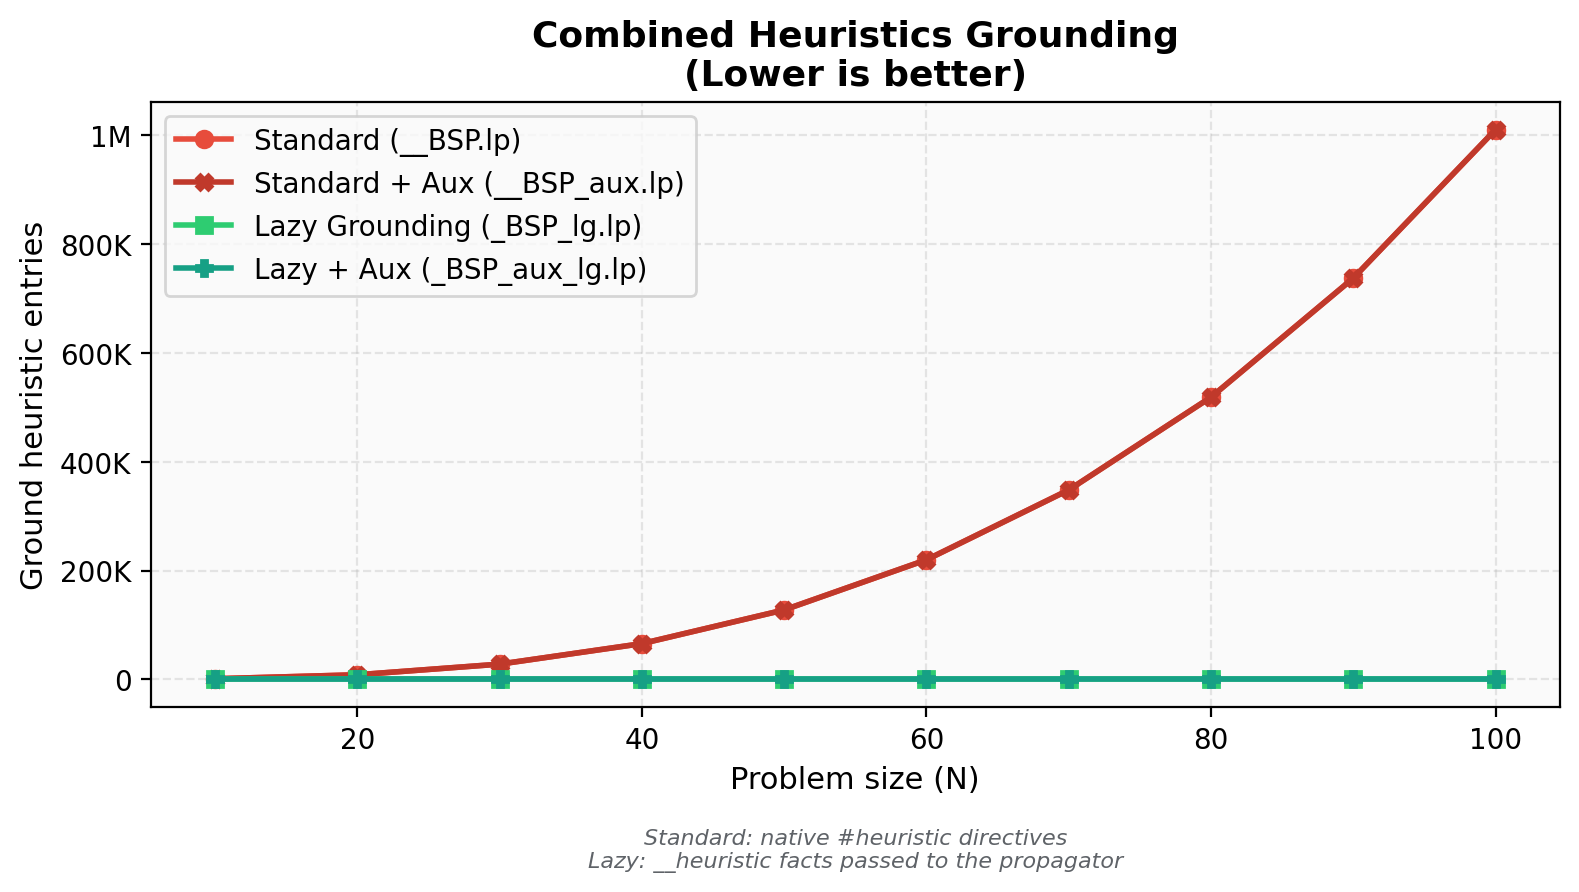
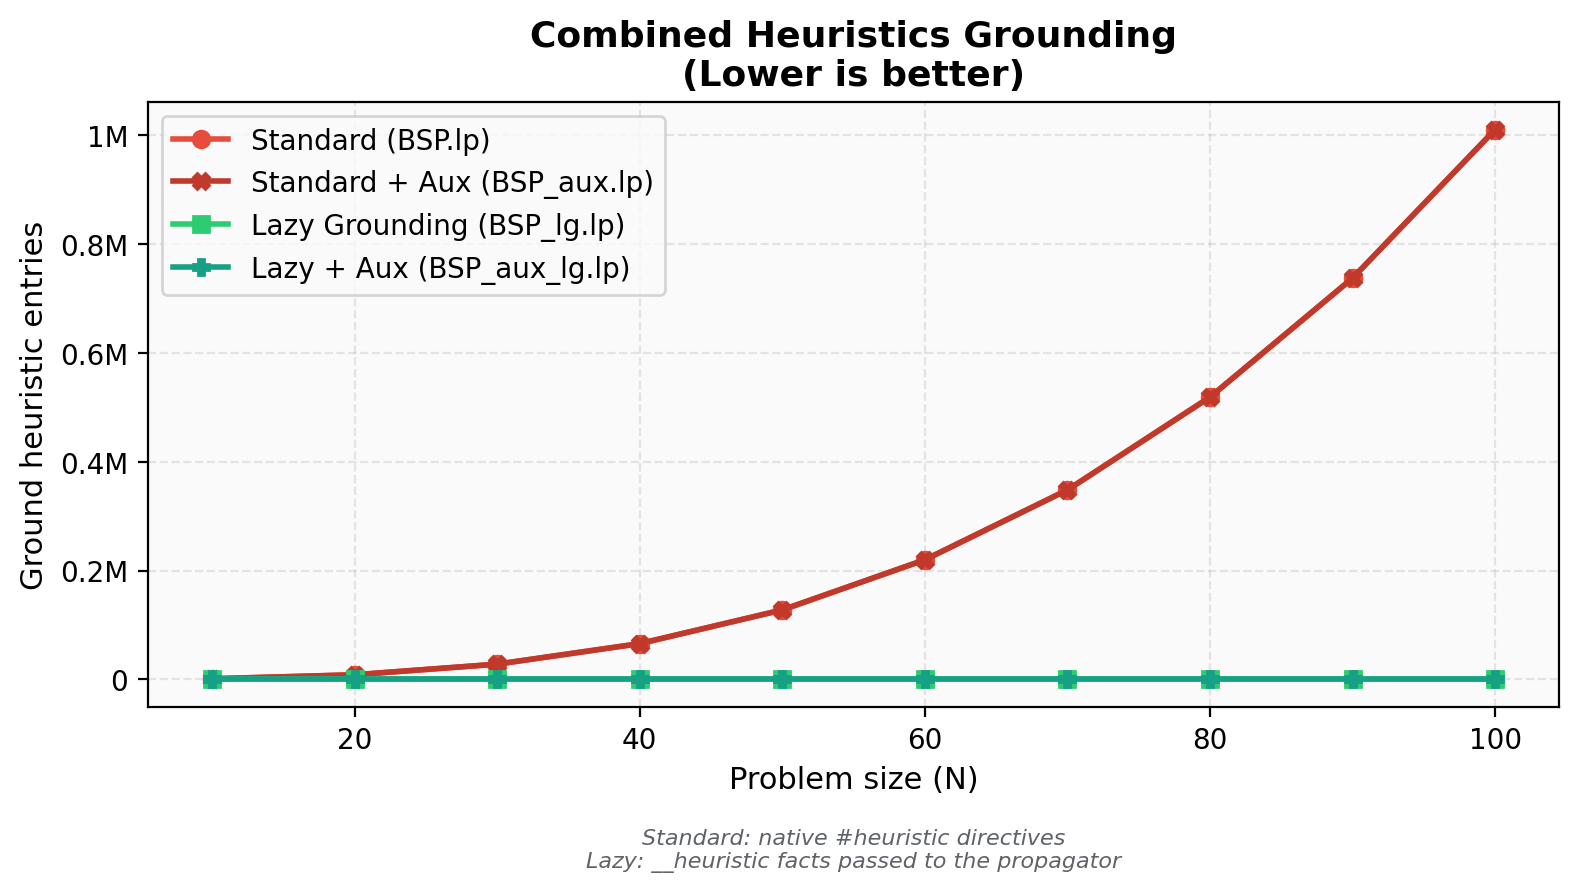
bene

diff --git a/test_folder/gen_graphs.py b/test_folder/gen_graphs.py
@@ -302,6 +302,11 @@ def compute_stats(raw):
 VARIANT_FILL_ALPHA = 0.15
 CAPTION_COLOR = "#5F6368"
 SEPARATOR_COLOR = "#D6D6D6"
+VERTICAL_SEPARATOR_GAP_FRACTION = 0.42
+MILLION_FORMAT_METRICS = {
+    "variables",
+    "combined_heuristics",
+}
 
 
 def _add_axis_caption(ax, description: str, *, y: float, width: int, fontsize: int):
@@ -342,15 +347,48 @@ def _format_compact_number(value, _pos=None):
     return f"{value:g}"
 
 
+def _format_millions(value, _pos=None):
+    """Format grounding-size ticks in millions, keeping sub-million values as decimals."""
+    abs_value = abs(value)
+    if abs_value >= 100_000:
+        scaled = value / 1_000_000
+        return f"{scaled:.1f}".rstrip("0").rstrip(".") + "M"
+    if abs_value >= 1:
+        return f"{value:.0f}"
+    if value == 0:
+        return "0"
+    return f"{value:g}"
+
+
+def _format_memory_mb(value, _pos=None):
+    """Format MB ticks compactly while keeping the axis unit in the label."""
+    abs_value = abs(value)
+    if abs_value >= 1_000:
+        scaled = value / 1_000
+        return f"{scaled:.1f}".rstrip("0").rstrip(".") + "k"
+    if abs_value >= 1:
+        return f"{value:.0f}"
+    if value == 0:
+        return "0"
+    return f"{value:g}"
+
+
 def _apply_y_axis_format(ax, metric: str):
     """Keep count-like axes readable and consistent across charts."""
-    if metric not in INTEGER_METRICS:
-        return
-
     from matplotlib.ticker import FuncFormatter, MaxNLocator
 
-    ax.yaxis.set_major_locator(MaxNLocator(nbins=6, integer=True))
-    ax.yaxis.set_major_formatter(FuncFormatter(_format_compact_number))
+    if metric == "memory_mb":
+        ax.yaxis.set_major_locator(MaxNLocator(nbins=6))
+        ax.yaxis.set_major_formatter(FuncFormatter(_format_memory_mb))
+    elif metric in MILLION_FORMAT_METRICS:
+        ax.yaxis.set_major_locator(MaxNLocator(nbins=6, integer=True))
+        ax.yaxis.set_major_formatter(FuncFormatter(_format_millions))
+    elif metric in INTEGER_METRICS:
+        ax.yaxis.set_major_locator(MaxNLocator(nbins=6, integer=True))
+        ax.yaxis.set_major_formatter(FuncFormatter(_format_compact_number))
+    else:
+        return
+
     ax.yaxis.offsetText.set_visible(False)
 
 
@@ -385,10 +423,9 @@ def _add_subplot_separators(fig, axes, n_plots: int):
         if not left_positions or not right_positions:
             continue
 
-        x = (
-            max(pos.x1 for pos in left_positions) +
-            min(pos.x0 for pos in right_positions)
-        ) / 2.0
+        left_edge = max(pos.x1 for pos in left_positions)
+        right_edge = min(pos.x0 for pos in right_positions)
+        x = left_edge + (right_edge - left_edge) * VERTICAL_SEPARATOR_GAP_FRACTION
         fig.add_artist(Line2D([x, x], [y0, y1], transform=fig.transFigure,
                               color=SEPARATOR_COLOR, linewidth=0.8))
 
@@ -523,7 +560,7 @@ def generate_graphs(stats: dict, graphs_dir: str, theme: dict, title_suffix: str
     suptitle += f"\n(mean ± σ over {_detect_seeds(stats)} seeds per point)"
 
     fig.suptitle(suptitle, fontsize=14, fontweight="bold", y=0.98)
-    plt.tight_layout(rect=[0, 0.01, 1, 0.955], h_pad=3.4, w_pad=3.0)
+    plt.tight_layout(rect=[0, 0.01, 1, 0.955], h_pad=3.4, w_pad=3.8)
     _add_subplot_separators(fig, axes, n_plots)
 
     suffix = f"_{title_suffix.lower().replace(' ', '_')}" if title_suffix else ""
